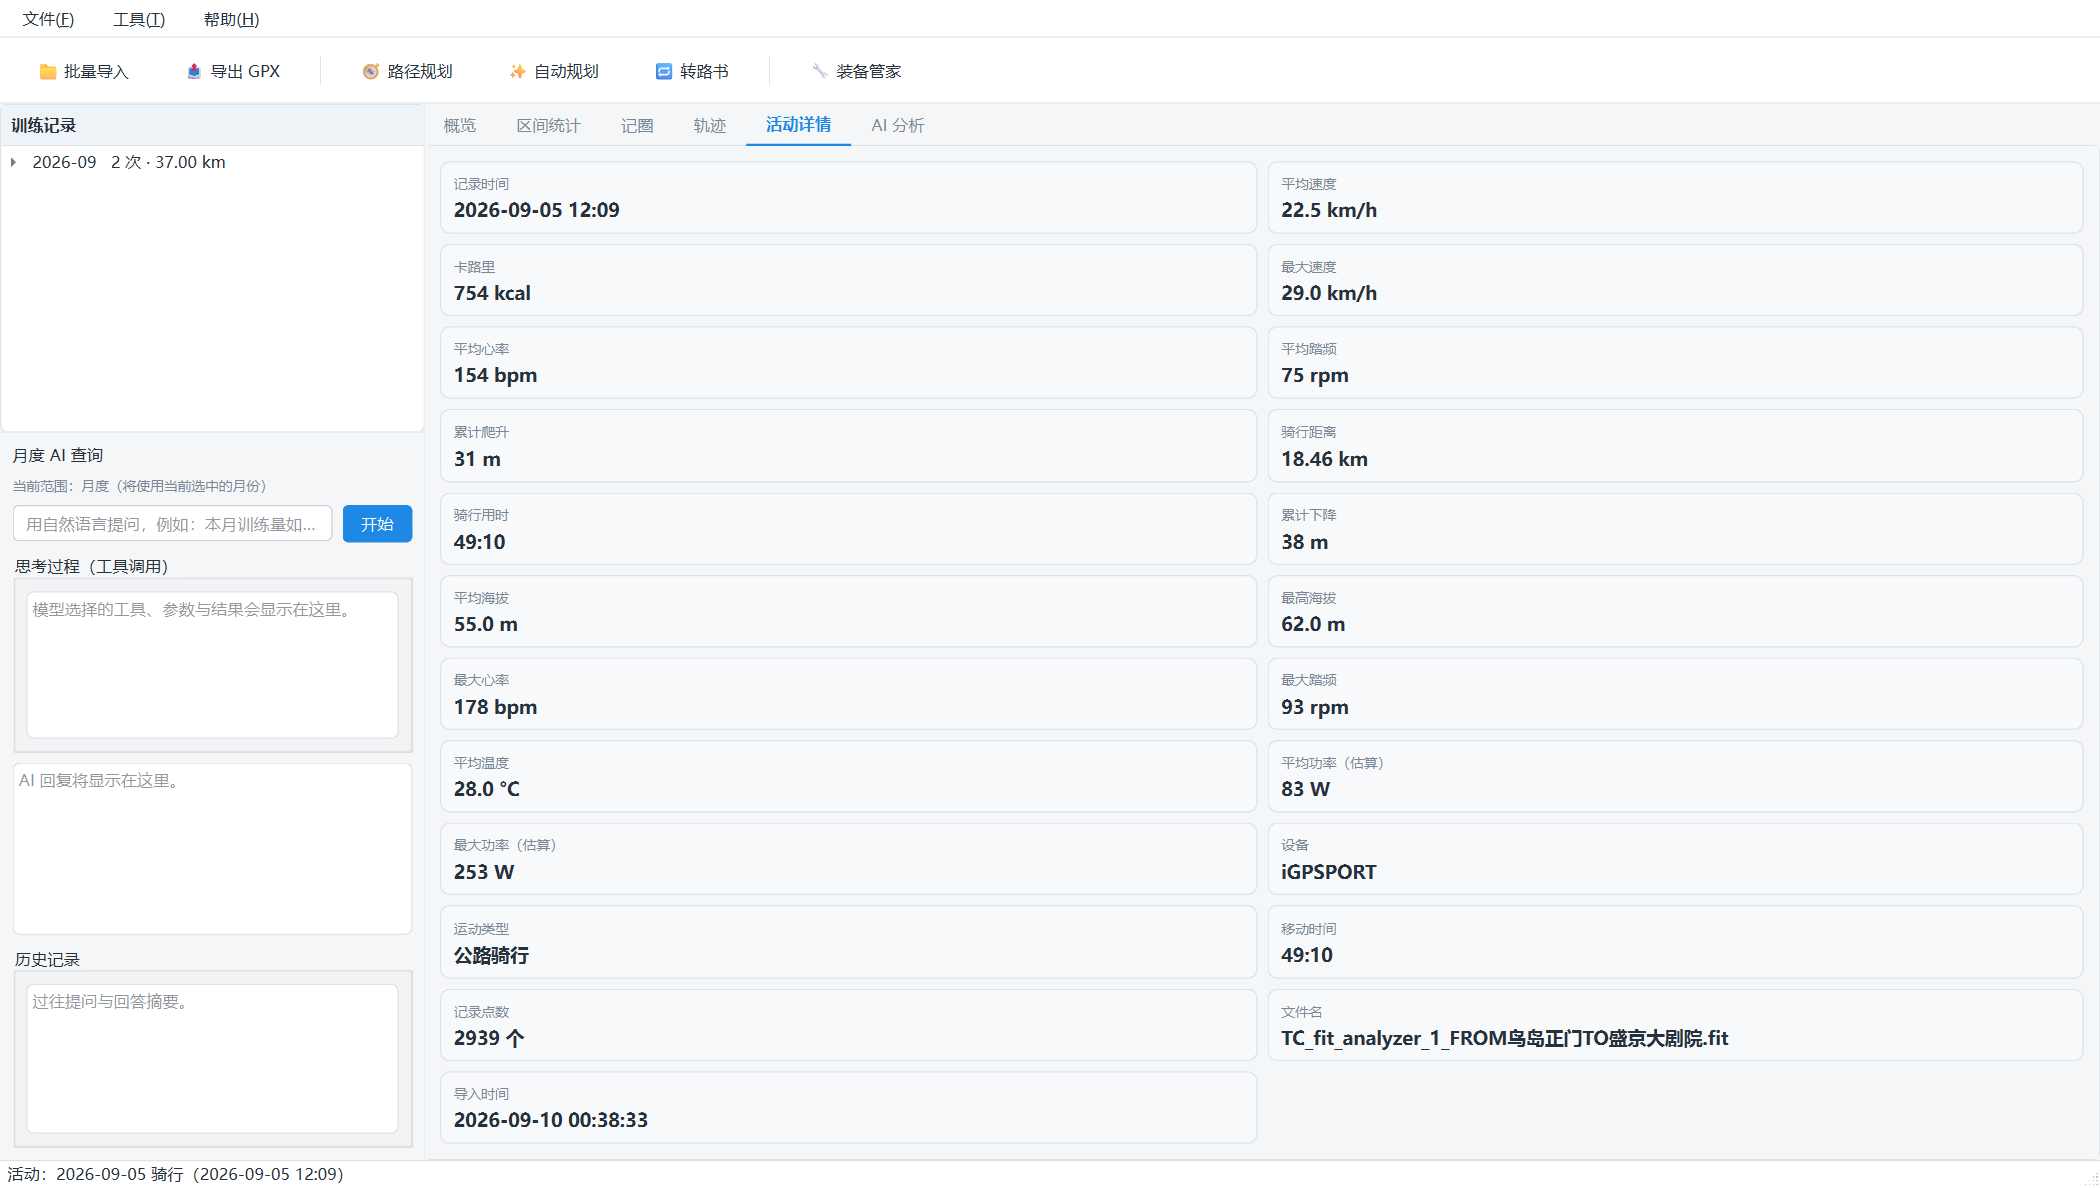
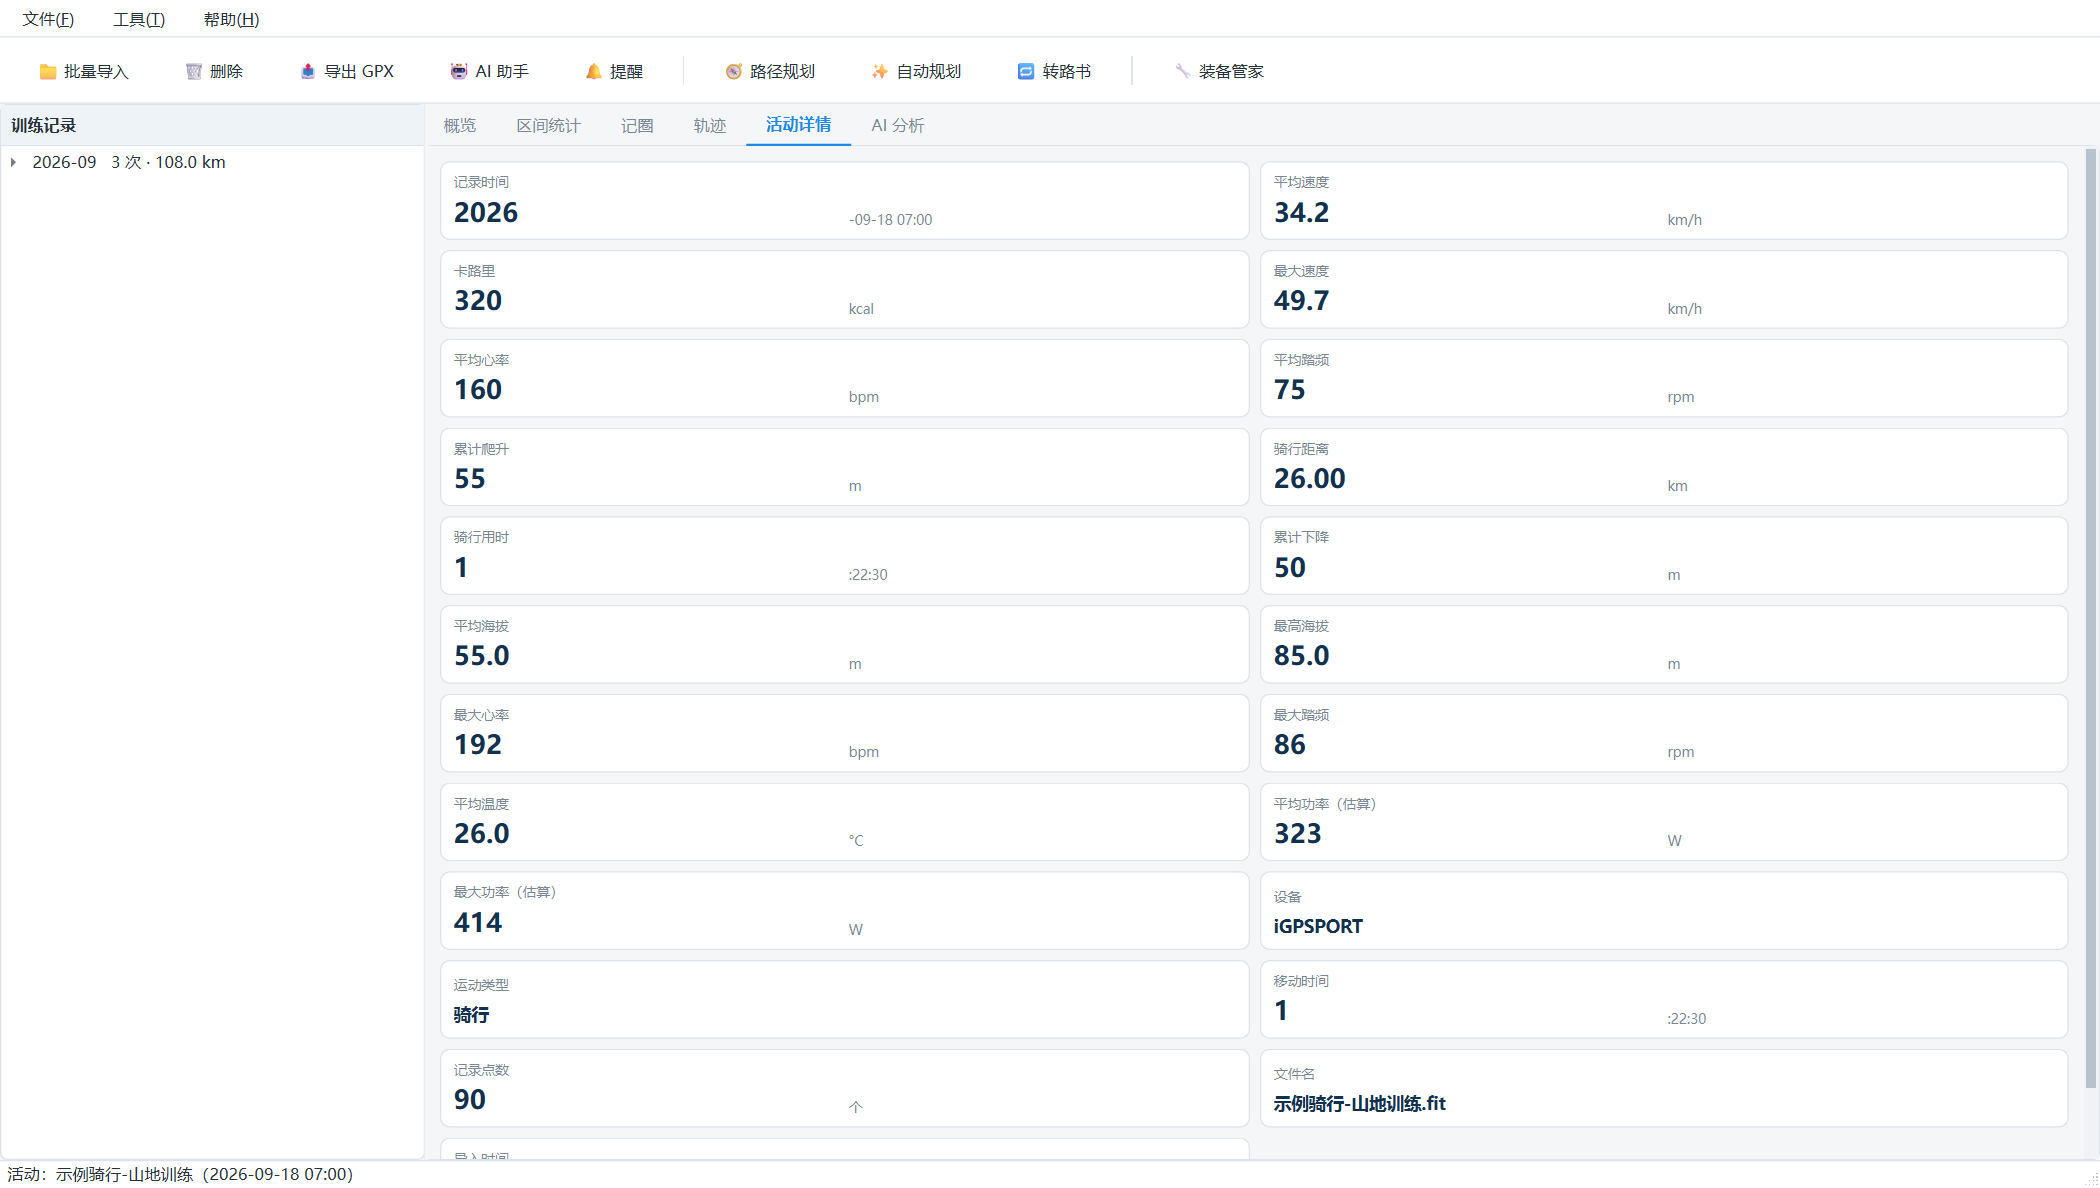
chore(docs): README 截图隐私脱敏——去除真实骑行地名
背景：README 引用的界面截图由真实骑行数据生成，「活动详情.png」
含真实活动文件名（鸟岛正门→盛京大剧院），「骑行路径.png」轨迹覆盖
沈阳多处真实地名（棋盘山/北陵公园/浑河等），公开文档会泄露行踪隐私。

改动
- tools/make_screens.py 新增 --sanitize 脱敏模式：不导入任何真实 FIT，
  改用内置模拟数据（虚构活动名「示例骑行-城市绿道/环湖/山地」+
  虚构坐标绕圈轨迹 + 心率/踏频/海拔曲线 + TSS 缓存），供公开文档截图；
  默认模式（真实数据）保留供本地排版
- imgs/*.png 全部 7 张 README 截图用脱敏模式重新生成

验证
- OCR 核对重生成截图：活动名/文件名均为「示例骑行-*」，无任何真实地名
- README.md / README_EN.md 文本扫描确认不含个人路径/用户名/邮箱

diff --git a/tools/make_screens.py b/tools/make_screens.py
@@ -2,16 +2,21 @@
 """重新生成 README 截图（imgs/*.png），使文档与当前界面保持一致。
 
 用法：
-    .venv/Scripts/python.exe tools/make_screens.py [--data-dir PATH]
+    .venv/Scripts/python.exe tools/make_screens.py [--data-dir PATH] [--sanitize]
 
 说明：
-- 优先使用 --data-dir 里的现有数据库；库为空时自动从本机 FIT 目录
+- 默认：优先使用 --data-dir 里的现有数据库；库为空时自动从本机 FIT 目录
   （F:\\byciclefits 或 Documents\\deepseek\\fittestdata）导入
+- --sanitize：**脱敏模式**——不导入任何真实数据，改用内置模拟数据
+  （虚构活动名 + 虚构绕圈轨迹），用于公开文档截图，避免泄露真实
+  骑行路线/地名等行踪隐私
 - 真实桌面平台渲染：窗口设 WA_DontShowOnScreen（不会真的弹到屏幕上，
   且中文字体正常，区别于 --selftest 的 offscreen 模式），grab() 截图
 - 每次界面有改动后重跑一遍即可刷新 README 里的截图
 """
 import argparse
+import math
+import random
 import sys
 import time
 from pathlib import Path
@@ -36,12 +41,70 @@ def _tab_index(tabs, text):
     return 0
 
 
+def _fake_activities(db):
+    """构造脱敏模拟数据（3 条虚构活动：城市绿道 / 环湖 / 山地）。"""
+    from core import training_load
+
+    sig = training_load.tss_signature({})
+    names = [
+        ("示例骑行-城市绿道", "2026-09-10 08:30:00", 50_000, 12.0, 150, 85, 280, 60, 90.0),
+        ("示例骑行-环湖路线", "2026-09-14 09:00:00", 32_000, 11.0, 148, 82, 210, 40, 65.0),
+        ("示例骑行-山地训练", "2026-09-18 07:00:00", 26_000, 9.5, 160, 75, 320, 55, 110.0),
+    ]
+    center_lat, center_lon = 39.9000, 116.4000  # 虚构坐标（不指向任何真实地点）
+    for i, (name, start_time, dist_m, avg_ms, avg_hr, avg_cad, cal, ascent, tss) in enumerate(names):
+        n = 90
+        records = []
+        tss_val = tss if i == 0 else None  # 只给一条带 TSS 缓存（训练负荷图有曲线）
+        for k in range(n):
+            t = k * 60  # 每分钟一点，90 分钟
+            frac = k / (n - 1)
+            speed = avg_ms * (1 + 0.25 * math.sin(frac * 3.5))  # 速度波动
+            hr = avg_hr + 12 * math.sin(frac * 2.0 + i)
+            cad = avg_cad + 5 * math.sin(frac * 4.0)
+            alt = 45 + 18 * math.sin(frac * 2.4) + ascent * frac * 0.01
+            # 绕圈轨迹：螺旋一圈半
+            ang = frac * 1.5 * 2 * math.pi
+            radius = 0.006 * (1 - 0.3 * frac)
+            records.append({
+                "t": t, "lat": center_lat + radius * math.sin(ang),
+                "lon": center_lon + radius * math.cos(ang),
+                "dist_m": dist_m * frac, "speed_ms": speed, "hr": hr,
+                "cad": cad, "alt_m": alt, "temp": 26.0, "power": None,
+            })
+        db.upsert_activity({
+            "file_hash": f"sanitized-{i}", "file_name": f"{name}.fit",
+            "name": name, "device": "iGPSPORT", "device_brand": "iGPSPORT",
+            "product": None, "product_name": "", "hw_version": "", "sw_version": "",
+            "sport": "cycling", "sub_sport_cn": "", "start_time": start_time,
+            "start_ts": int(time.mktime(time.strptime(start_time, "%Y-%m-%d %H:%M:%S"))),
+            "summary": {
+                "total_distance_m": dist_m, "timer_s": n * 55, "elapsed_s": n * 60,
+                "moving_s": n * 55, "avg_speed_ms": avg_ms, "max_speed_ms": round(avg_ms * 1.45, 1),
+                "avg_hr": avg_hr, "max_hr": round(avg_hr * 1.2), "min_hr": round(avg_hr * 0.82),
+                "avg_cad": avg_cad, "max_cad": round(avg_cad * 1.15),
+                "calories": cal, "ascent_m": ascent, "descent_m": round(ascent * 0.9),
+                "avg_alt_m": 55.0, "max_alt_m": 85.0, "min_alt_m": 30.0,
+                "avg_temp": 26.0, "max_temp": 28.0, "min_temp": 24.0,
+                "lat": center_lat, "lon": center_lon,
+            },
+            "laps": [], "records": records, "record_count": n,
+            "tss": tss_val, "tss_method": "hr" if tss_val else None,
+            "tss_sig": sig if tss_val else None,
+        })
+    print(f"已写入 {len(names)} 条模拟活动（脱敏模式）")
+
+
 def main():
     parser = argparse.ArgumentParser(description="重新生成 README 截图")
     parser.add_argument("--data-dir", default=None, help="数据目录（默认 .tmp/screens_data）")
+    parser.add_argument("--sanitize", action="store_true",
+                        help="脱敏模式：用内置模拟数据生成截图，不导入真实骑行数据")
     args = parser.parse_args()
 
     data_dir = Path(args.data_dir) if args.data_dir else ROOT / ".tmp" / "screens_data"
+    if args.sanitize:
+        data_dir = ROOT / ".tmp" / "screens_sanitized"
     data_dir.mkdir(parents=True, exist_ok=True)
 
     from PySide6.QtCore import Qt
@@ -60,19 +123,22 @@ def main():
     config = Config(data_dir / "config.json")
     db = db_mod.DB(data_dir / "fit.db")
     if db.count() == 0:
-        fit_dir = None
-        for cand in (Path(r"F:\byciclefits"),
-                     Path(r"C:\Users\zhengyingjun\Documents\deepseek\fittestdata")):
-            if cand.exists() and any(cand.rglob("*.fit")):
-                fit_dir = cand
-                break
-        if fit_dir is None:
-            print("!! 无活动数据且未找到本机 FIT 目录，无法生成截图")
-            return 1
-        results, _ = fit_parser.parse_many(sorted(fit_dir.rglob("*.fit")))
-        for r in results:
-            db.upsert_activity(r["data"])
-        print(f"已从 {fit_dir} 导入 {len(results)} 条活动")
+        if args.sanitize:
+            _fake_activities(db)
+        else:
+            fit_dir = None
+            for cand in (Path(r"F:\byciclefits"),
+                         Path(r"C:\Users\zhengyingjun\Documents\deepseek\fittestdata")):
+                if cand.exists() and any(cand.rglob("*.fit")):
+                    fit_dir = cand
+                    break
+            if fit_dir is None:
+                print("!! 无活动数据且未找到本机 FIT 目录，无法生成截图")
+                return 1
+            results, _ = fit_parser.parse_many(sorted(fit_dir.rglob("*.fit")))
+            for r in results:
+                db.upsert_activity(r["data"])
+            print(f"已从 {fit_dir} 导入 {len(results)} 条活动")
 
     from app import list_backgrounds
     from gui.main_window import MainWindow
